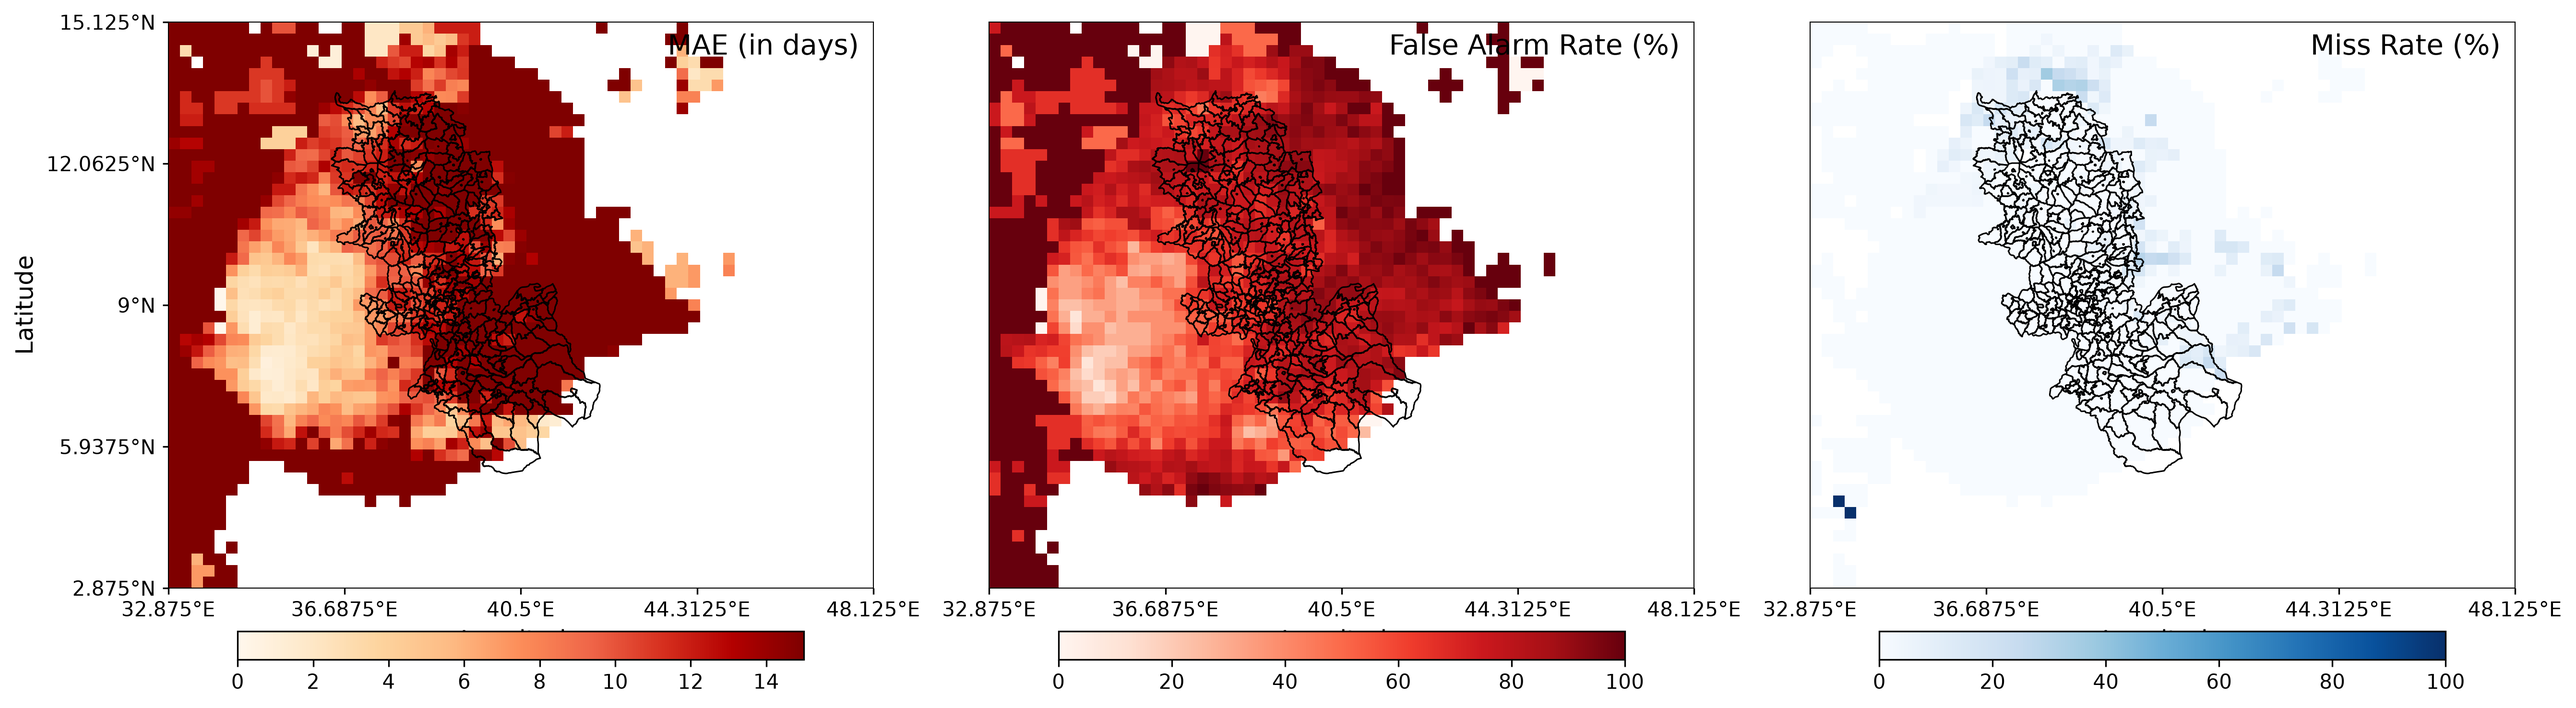
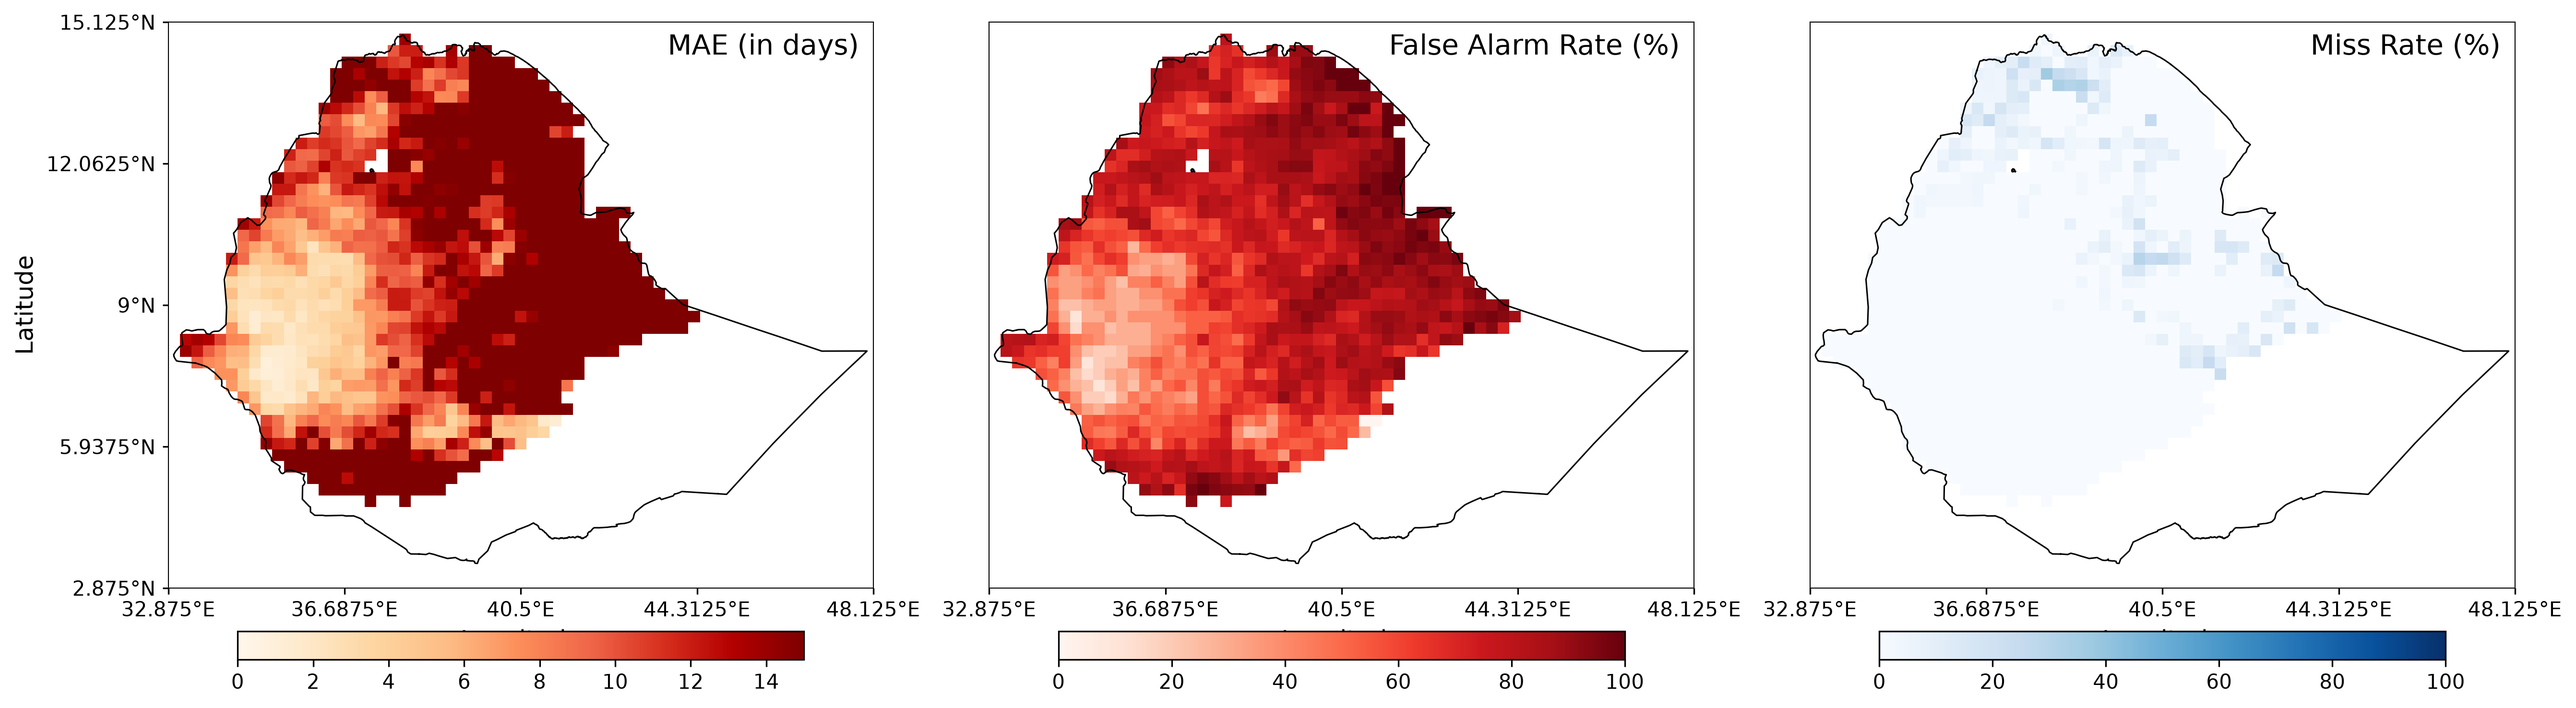
add shapefile from gcs

diff --git a/apps/benchmarking/ROMP/momp/io/input.py b/apps/benchmarking/ROMP/momp/io/input.py
@@ -6,6 +6,7 @@ Data loading utilities for observation and model forecast datasets.
 import os
 import re
 import sys
+import tempfile
 from datetime import datetime
 from functools import lru_cache
 from pathlib import Path
@@ -60,8 +61,35 @@ def _normalize_admin_name(value):
     return re.sub(r"[^a-z0-9]", "", str(value).strip().lower())
 
 
+def _download_admin_boundaries(region):
+    """Stage the configured region's administrative boundaries from the demo bucket."""
+    bucket = os.getenv("DEMO_BUCKET", "").strip().removeprefix("gs://").strip("/")
+    if not bucket:
+        return None
+
+    remote_dir = f"gs://{bucket}/demo4/DATA/{region}/shapefile"
+    remote_files = storage.glob(f"{remote_dir}/**")
+    boundary_files = [
+        path for path in remote_files
+        if path.lower().endswith((".shp", ".geojson", ".json", ".shx", ".dbf", ".prj", ".cpg"))
+    ]
+    if not boundary_files:
+        return None
+
+    local_dir = Path(tempfile.gettempdir()) / "momp_admin_boundaries" / re.sub(r"[^a-zA-Z0-9_-]", "_", region)
+    local_dir.mkdir(parents=True, exist_ok=True)
+    fs = storage.gcs_fs()
+    for remote_path in boundary_files:
+        relative = remote_path[len(remote_dir):].lstrip("/")
+        target = local_dir / relative
+        target.parent.mkdir(parents=True, exist_ok=True)
+        if not target.exists():
+            fs.get(storage._strip(remote_path), str(target))
+    return local_dir
+
+
 @lru_cache(maxsize=8)
-def _build_admin_grid_index(admin_names, latitudes, longitudes, shapefile_dir):
+def _build_admin_grid_index(admin_names, latitudes, longitudes, shapefile_dir, region="Ethiopia"):
     import geopandas as gpd
 
     source = Path(shapefile_dir).expanduser()
@@ -75,6 +103,15 @@ def _build_admin_grid_index(admin_names, latitudes, longitudes, shapefile_dir):
         ]
     else:
         boundary_files = []
+
+    if not boundary_files:
+        downloaded_dir = _download_admin_boundaries(region)
+        if downloaded_dir is not None:
+            boundary_files = [
+                path
+                for pattern in ("*.geojson", "*.json", "*.shp")
+                for path in downloaded_dir.rglob(pattern)
+            ]
 
     boundary_files.sort(
         key=lambda path: (
@@ -131,7 +168,7 @@ def _build_admin_grid_index(admin_names, latitudes, longitudes, shapefile_dir):
     return grid_index.reshape(lon_grid.shape)
 
 
-def admin_forecast_grid_index(admin_names, grid, shpfile_dir=None):
+def admin_forecast_grid_index(admin_names, grid, shpfile_dir=None, region="Ethiopia"):
     if shpfile_dir is None:
         shpfile_dir = getattr(params, "shpfile_dir", None)
     if not shpfile_dir:
@@ -141,6 +178,7 @@ def admin_forecast_grid_index(admin_names, grid, shpfile_dir=None):
         tuple(float(value) for value in grid.lat.values),
         tuple(float(value) for value in grid.lon.values),
         str(shpfile_dir),
+        str(region),
     )
 
 

diff --git a/apps/benchmarking/ROMP/momp/stats/detect.py b/apps/benchmarking/ROMP/momp/stats/detect.py
@@ -315,6 +315,7 @@ def compute_onset_for_deterministic_model(
             p_model[admin_dim].values,
             onset_da,
             kwargs.get("shpfile_dir"),
+            region=kwargs.get("region", "Ethiopia"),
         )
     else:
         lats = p_model.lat.values
@@ -479,6 +480,7 @@ def compute_onset_for_all_members(
             p_model[admin_dim].values,
             onset_da,
             kwargs.get("shpfile_dir"),
+            region=kwargs.get("region", "Ethiopia"),
         )
     else:
         lats = p_model.lat.values
